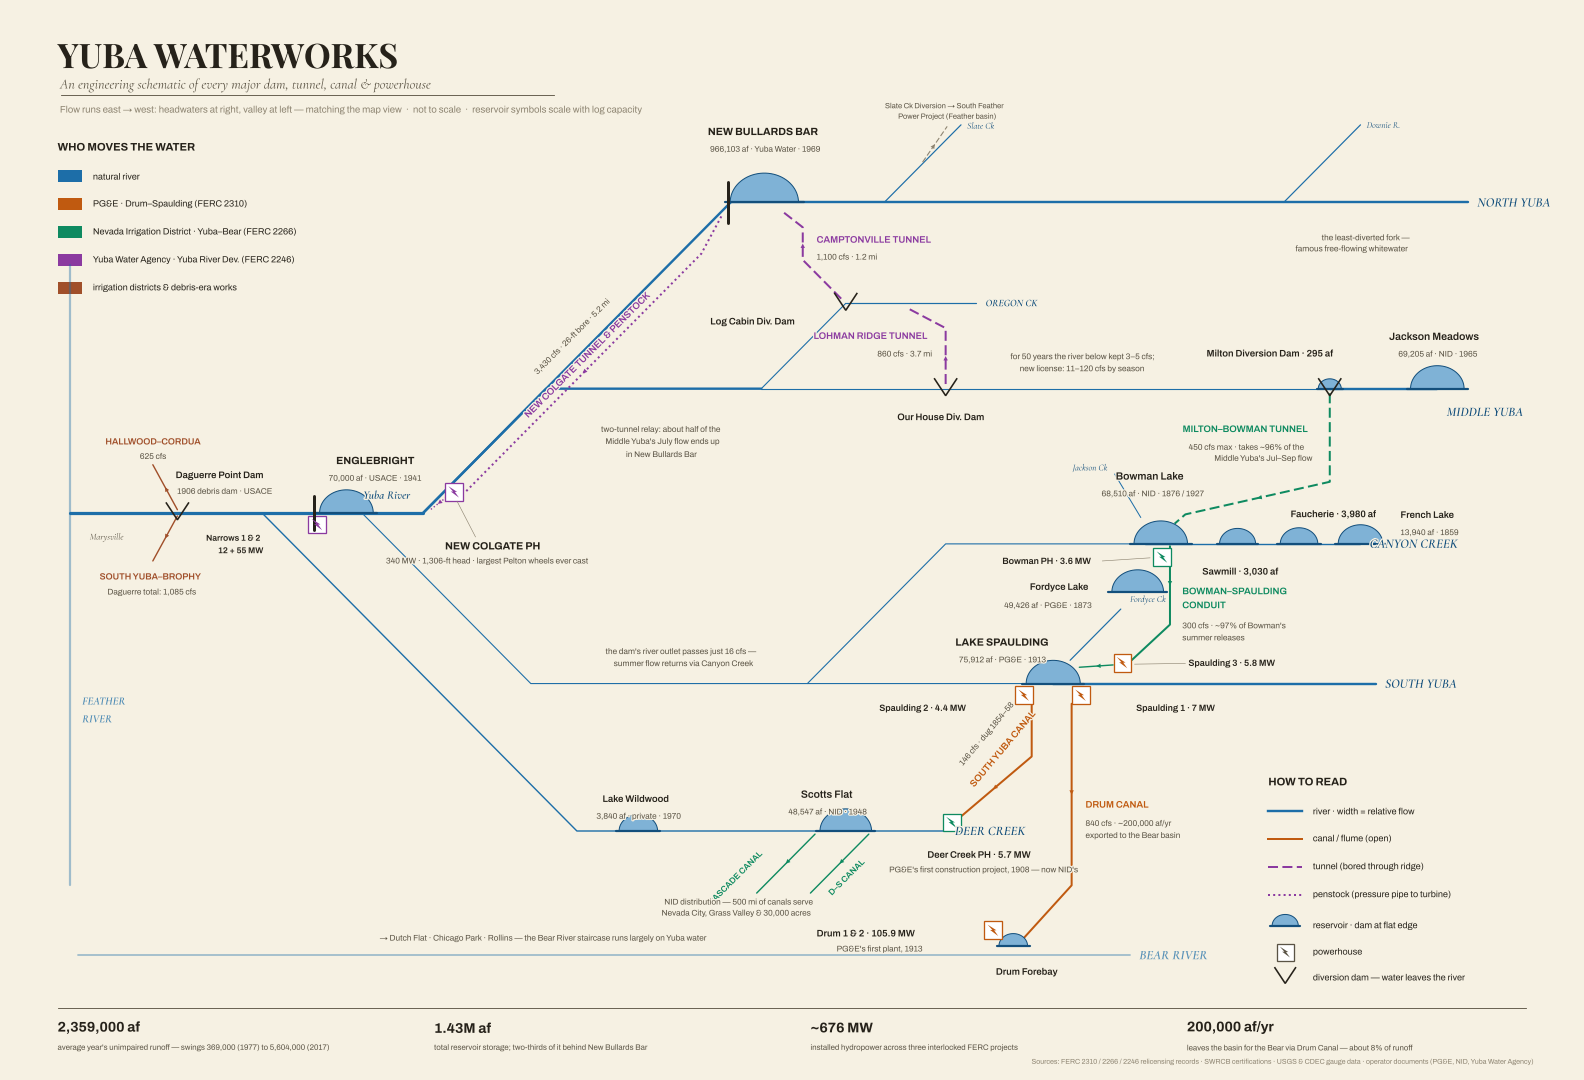
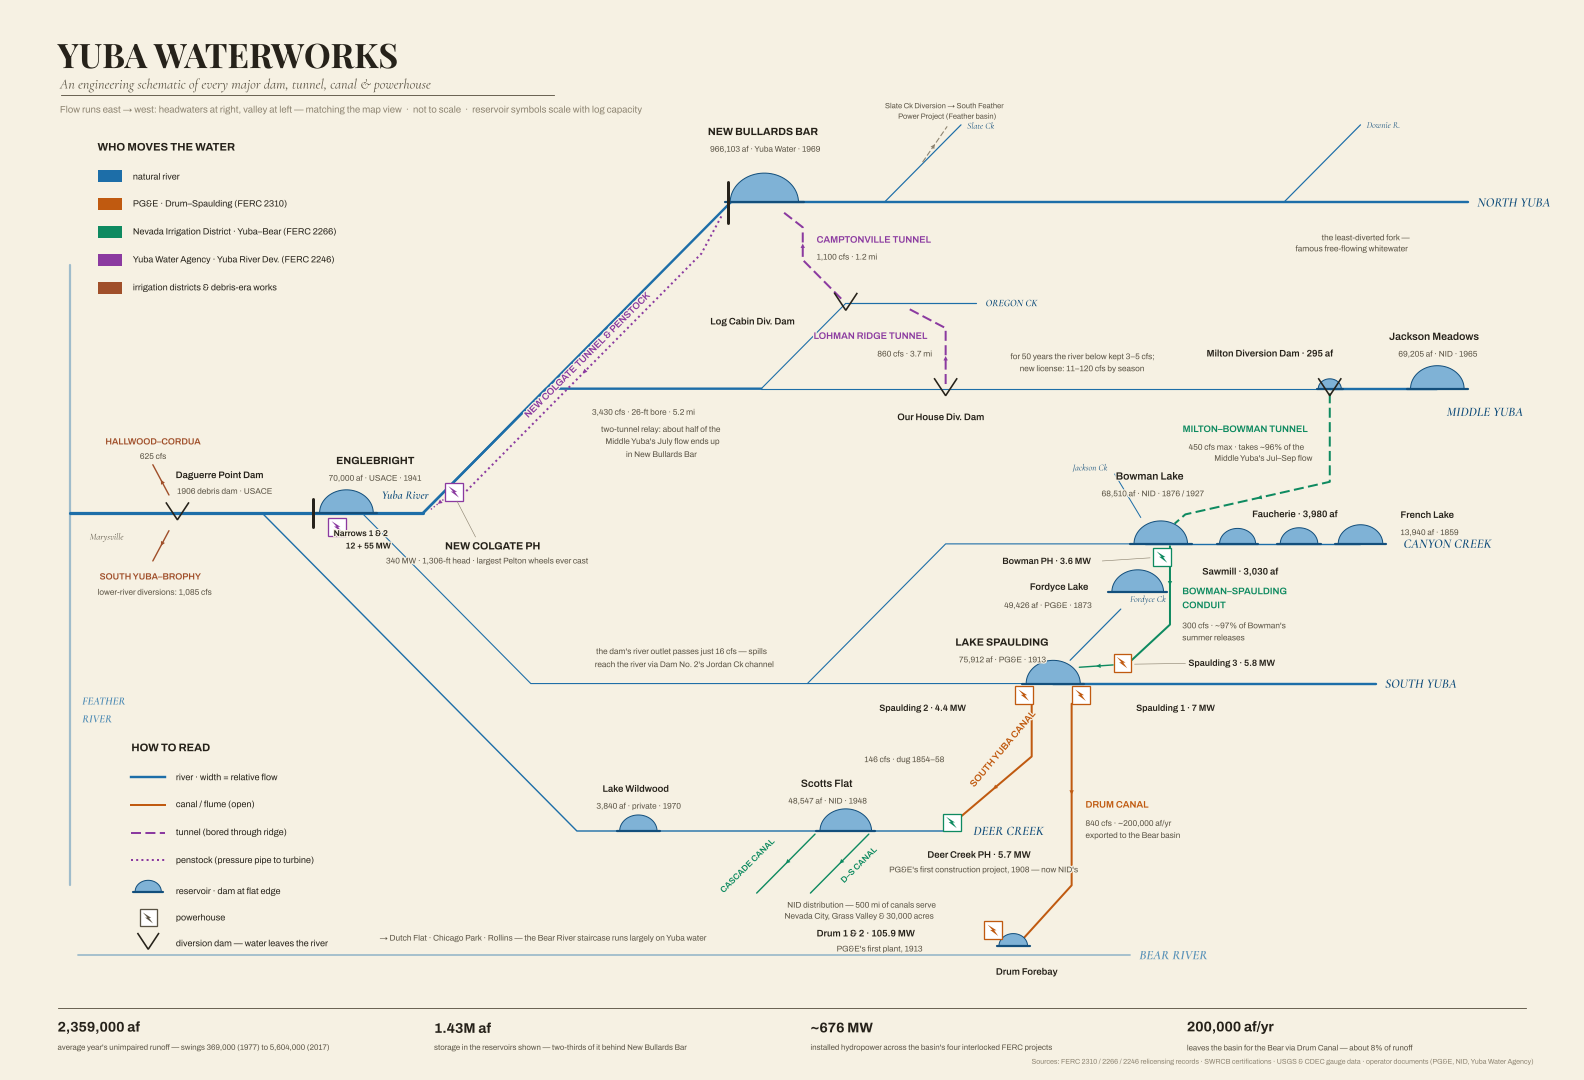
Polish Yuba map pair after adversarial review; mirror schematic east-west
- Schematic now reads east->west (headwaters right, Marysville left),
  matching the geographic view; chrome re-seated for the mirror.
- 11-agent review pass applied: fixed neatline clipping (axes inset),
  legend card overflow, scale bar collision, a dozen label collisions,
  and fact corrections (South Yuba Wild & Scenic since 1999, 17.2 MW
  Spaulding sum, four FERC projects behind the ~676 MW figure,
  storage caption scoped to reservoirs shown).
- Visual hierarchy: conveyances heavier, minor tributaries lighter;
  scale bar + north arrow grouped bottom-right; maps/README.md added.

Claude-Session: https://claude.ai/code/session_01EhBGgxf2qJ1Rh9PgSeVibk

diff --git a/maps/build_schematic.py b/maps/build_schematic.py
@@ -154,10 +154,10 @@ def main():
     conveyance(ax, [(45.0, Y_DEER - 0.2), (48.8, Y_DEER - 4.0)], style.NID,
                "canal", lw=1.4)
     # Daguerre Point diversions (steep exits)
-    conveyance(ax, [(90, Y_MAIN + 0.2), (91.6, Y_MAIN + 3.1)], style.DEBRIS,
-               "canal", lw=1.4)
-    conveyance(ax, [(90, Y_MAIN - 0.2), (91.6, Y_MAIN - 3.1)], style.DEBRIS,
-               "canal", lw=1.4)
+    conveyance(ax, [(90.55, Y_MAIN + 1.15), (91.6, Y_MAIN + 3.1)],
+               style.DEBRIS, "canal", lw=1.4)
+    conveyance(ax, [(90.55, Y_MAIN - 1.15), (91.6, Y_MAIN - 3.1)],
+               style.DEBRIS, "canal", lw=1.4)
 
     # ------------------------------------------------------------ reservoirs
     R = {
@@ -171,7 +171,7 @@ def main():
         "Lake Spaulding": (33, Y_SOUTH, 75912),
         "New Bullards Bar": (51.8, Y_NORTH, 966103),
         "Scotts Flat": (46.5, Y_DEER, 48547),
-        "Lake Wildwood": (60, Y_DEER, 4700),
+        "Lake Wildwood": (60, Y_DEER, 3840),
         "Englebright Lake": (79, Y_MAIN, 70000),
         "Drum Forebay": (35.6, Y_BEAR + 0.6, 800),
     }
@@ -190,7 +190,7 @@ def main():
         (36.9, Y_BEAR + 1.6, "Drum", style.PGE),
         (39.6, Y_DEER + 0.55, "Deer Creek", style.NID),
         (72.0, Y_MAIN + 1.35, "New Colgate", style.YWA),
-        (80.9, Y_MAIN - 0.75, "Narrows", style.YWA),
+        (79.6, Y_MAIN - 0.9, "Narrows", style.YWA),
     ]
     for x, y, nm, col in PH:
         symbols.draw_powerhouse(ax, FX(x), y, 1.15, col)
@@ -199,7 +199,7 @@ def main():
         symbols.draw_div_dam(ax, FX(x), y, 1.5, style.INK, zorder=8)
     # storage dam ticks
     symbols.draw_dam_tick(ax, FX(54.15), Y_NORTH, 2.6, style.INK)
-    symbols.draw_dam_tick(ax, FX(81.1), Y_MAIN, 2.2, style.INK)
+    symbols.draw_dam_tick(ax, FX(81.15), Y_MAIN, 1.8, style.INK)
 
     fig.canvas.draw()
 
@@ -229,9 +229,9 @@ def main():
               col=style.RIVER_DK, ha="right")
     T(5.4, Y_NORTH, "NORTH YUBA", **RN)
     T(7.4, Y_MIDDLE - 1.5, "MIDDLE YUBA", **RN)
-    T(12.4, Y_CANYON, "CANYON CREEK", **RN)
+    T(10.2, Y_CANYON, "CANYON CREEK", **RN)
     T(11.4, Y_SOUTH, "SOUTH YUBA", **RN)
-    T(39.4, Y_DEER, "DEER CREEK", **RN)
+    T(38.2, Y_DEER, "DEER CREEK", **RN)
     T(37.4, Y_OREGON, "OREGON CK", fs=10, fam=style.SERIF, fstyle="italic",
       fw=600, col=style.RIVER_DK, ha="right")
     T(27.4, Y_BEAR, "BEAR RIVER", fs=13, fam=style.SERIF, fstyle="italic",
@@ -239,7 +239,7 @@ def main():
     T(96.2, Y_MAIN - 11.5, "FEATHER\nRIVER", fs=11, fam=style.SERIF,
       fstyle="italic", fw=600, col=style.RIVER, ha="right", va="top",
       alpha=0.75)
-    T(76.4, Y_MAIN + 0.6, "Yuba River", fs=11.5, fam=style.SERIF,
+    T(75.2, Y_MAIN + 0.6, "Yuba River", fs=11.5, fam=style.SERIF,
       fstyle="italic", fw=700, col=style.RIVER_DK, va="bottom")
     T(94.6, Y_MAIN - 1.1, "Marysville", fs=9, fam=style.SERIF,
       fstyle="italic", fw=400, col=style.INK_SOFT, va="top")
@@ -265,7 +265,7 @@ def main():
     rlabel("Milton", 3.4, 2.3, "Milton Diversion Dam · 295 af", fs=9.5)
     rlabel("French Lake", -2.6, 1.9, "French Lake",
            "13,940 af · 1859", ha="right", fs=9.5)
-    rlabel("Faucherie", -2.5, 1.9, "Faucherie · 3,980 af", fs=9.5)
+    rlabel("Faucherie", 0, 1.9, "Faucherie · 3,980 af", fs=9.5)
     rlabel("Sawmill", -0.4, -1.8, "Sawmill · 3,030 af", fs=9.5)
     rlabel("Bowman Lake", 0.6, 4.4, "Bowman Lake",
            "68,510 af · NID · 1876 / 1927")
@@ -275,8 +275,8 @@ def main():
            "75,912 af · PG&E · 1913", fw=700)
     rlabel("New Bullards Bar", 0, 4.6, "NEW BULLARDS BAR",
            "966,103 af · Yuba Water · 1969", fw=700)
-    rlabel("Scotts Flat", 1.1, 2.4, "Scotts Flat", "48,547 af · NID · 1948")
-    rlabel("Lake Wildwood", 0, 2.1, "Lake Wildwood",
+    rlabel("Scotts Flat", 1.1, 3.1, "Scotts Flat", "48,547 af · NID · 1948")
+    rlabel("Lake Wildwood", 0, 2.75, "Lake Wildwood",
            "3,840 af · private · 1970", fs=9.5)
     rlabel("Englebright Lake", -1.9, 3.4, "ENGLEBRIGHT",
            "70,000 af · USACE · 1941", fw=700)
@@ -303,7 +303,7 @@ def main():
     SUB(69.4, Y_MAIN - 3.1, "340 MW · 1,306-ft head · largest Pelton wheels ever cast")
     ax.plot([FX(70.6), FX(71.8)], [Y_MAIN - 1.55, Y_MAIN + 0.75],
             color=style.INK_MUTE, lw=0.6, zorder=11)
-    T(84.3, Y_MAIN - 1.2, "Narrows 1 & 2\n12 + 55 MW", fs=8.5, ha="left",
+    T(76.0, Y_MAIN - 0.9, "Narrows 1 & 2\n12 + 55 MW", fs=8.5, ha="left",
       va="top")
 
     # ----------------------------------------------------- conveyance labels
@@ -318,19 +318,19 @@ def main():
     T(48.4, 49.6, "CAMPTONVILLE TUNNEL", fs=9.5, col=YWA_, ha="right")
     SUB(48.4, 48.5, "1,100 cfs · 1.2 mi", ha="right")
     T(63.2, 42.3, "NEW COLGATE TUNNEL & PENSTOCK", fs=9.5, col=YWA_, rot=-45)
-    SUB(64.35, 43.35, "3,430 cfs · 26-ft bore · 5.2 mi", rot=-45)
+    SUB(59.7, 38.5, "3,430 cfs · 26-ft bore · 5.2 mi")
     T(30.9, 13.2, "DRUM CANAL", fs=9.5, col=PGE_, ha="right")
     SUB(30.9, 11.6, "840 cfs · ~200,000 af/yr\nexported to the Bear basin",
         ha="right")
     T(36.2, 16.9, "SOUTH YUBA CANAL", fs=9.5, col=PGE_, rot=-50)
-    SUB(37.35, 17.75, "146 cfs · dug 1854–58", rot=-50)
-    T(53.6, 8.6, "CASCADE CANAL", fs=8.5, col=NID_, rot=-45)
-    T(46.4, 8.6, "D–S CANAL", fs=8.5, col=NID_, rot=-45)
-    SUB(53.5, 6.6, "NID distribution — 500 mi of canals serve\nNevada City, Grass Valley & 30,000 acres")
+    SUB(42.7, 16.1, "146 cfs · dug 1854–58")
+    T(52.8, 9.4, "CASCADE CANAL", fs=8.5, col=NID_, rot=-45)
+    T(45.6, 9.4, "D–S CANAL", fs=8.5, col=NID_, rot=-45)
+    SUB(45.5, 6.4, "NID distribution — 500 mi of canals serve\nNevada City, Grass Valley & 30,000 acres")
     T(91.6, Y_MAIN + 4.6, "HALLWOOD–CORDUA", fs=9, col=DEB_)
     SUB(91.6, Y_MAIN + 3.7, "625 cfs")
     T(91.6, Y_MAIN - 4.1, "SOUTH YUBA–BROPHY", fs=9, col=DEB_)
-    SUB(91.6, Y_MAIN - 5.1, "Daguerre total: 1,085 cfs")
+    SUB(91.6, Y_MAIN - 5.1, "lower-river diversions: 1,085 cfs")
     SUB(66, Y_BEAR + 1.1,
         "→ Dutch Flat · Chicago Park · Rollins — the Bear River staircase runs largely on Yuba water")
 
@@ -338,7 +338,7 @@ def main():
     BD = dict(fs=8.2, fam=style.SANS, fw=400, col=style.INK_SOFT,
               fstyle="italic")
     T(31, Y_MIDDLE + 0.9, "for 50 years the river below kept 3–5 cfs;\nnew license: 11–120 cfs by season", va="bottom", **BD)
-    T(57, Y_SOUTH + 0.9, "the dam's river outlet passes just 16 cfs —\nsummer flow returns via Canyon Creek", va="bottom", **BD)
+    T(57, Y_SOUTH + 0.9, "the dam's river outlet passes just 16 cfs — spills\nreach the river via Dam No. 2's Jordan Ck channel", va="bottom", **BD)
     T(58.5, Y_MIDDLE - 3.4, "two-tunnel relay: about half of the\nMiddle Yuba's July flow ends up\nin New Bullards Bar", **BD)
     T(9.5, Y_NORTH - 2.6, "the least-diverted fork —\nfamous free-flowing whitewater", ha="left", **BD)
 
@@ -352,8 +352,8 @@ def main():
     TC(2.35, 58.4, "Flow runs east → west: headwaters at right, valley at left — matching the map view  ·  not to scale  ·  reservoir symbols scale with log capacity",
        fs=9.5, fw=400, col=style.INK_MUTE, ha="left", va="top")
 
-    # legend (bottom right, in the mirrored diagram's void)
-    lx, ly = 81.0, 0.4
+    # legend (center-left void of the mirrored diagram)
+    lx, ly = 7.0, 2.6
     ax.plot([lx, lx + 2.2], [ly + 12.4, ly + 12.4], color=style.RIVER, lw=2.4)
     TC(lx + 2.9, ly + 12.4, "river · width = relative flow", fs=9, fw=400,
        ha="left")
@@ -377,7 +377,7 @@ def main():
        fw=400, ha="left")
     TC(lx, ly + 14.3, "HOW TO READ", fs=11, fw=700, ha="left")
     # owner key (left margin below the title, above the mirrored descent)
-    ox, oy = 2.2, 55.6
+    ox, oy = 4.8, 55.6
     TC(ox, oy, "WHO MOVES THE WATER", fs=11, fw=700, ha="left")
     for i, (col, lab) in enumerate([
             (style.RIVER, "natural river"),
@@ -394,8 +394,8 @@ def main():
     ax.plot([2.2, 97.8], [0.1, 0.1], color=style.FRAME, lw=0.8, zorder=22)
     tiles = [
         ("2,359,000 af", "average year's unimpaired runoff — swings 369,000 (1977) to 5,604,000 (2017)"),
-        ("1.43M af", "total reservoir storage; two-thirds of it behind New Bullards Bar"),
-        ("~676 MW", "installed hydropower across three interlocked FERC projects"),
+        ("1.43M af", "storage in the reservoirs shown — two-thirds of it behind New Bullards Bar"),
+        ("~676 MW", "installed hydropower across the basin's four interlocked FERC projects"),
         ("200,000 af/yr", "leaves the basin for the Bear via Drum Canal — about 8% of runoff"),
     ]
     for i, (num, cap) in enumerate(tiles):

diff --git a/maps/build_geo_map.py b/maps/build_geo_map.py
@@ -93,7 +93,7 @@ def draw_basins(ax):
     return yuba, bear
 
 
-RIVER_LW = {1: 3.4, 2: 2.3, 3: 1.5, 4: 1.0}
+RIVER_LW = {1: 3.4, 2: 2.3, 3: 1.3, 4: 0.85}
 CONTEXT_RIVERS = {"Bear River", "Feather River", "Wolf Creek"}
 
 
@@ -108,9 +108,10 @@ def draw_rivers(ax, eng=None):
             p = geo.project_arr(np.array(c))
             p = geo.chaikin(geo.simplify(p, 0.03), 2)
             width = RIVER_LW[cls] * (0.75 if ctx else 1.0)
+            a = 0.45 if ctx else (0.95 if cls <= 2 else 0.8)
             ax.plot(p[:, 0], p[:, 1], color=style.RIVER, lw=width,
                     solid_capstyle="round", solid_joinstyle="round",
-                    zorder=4, alpha=0.45 if ctx else 0.95)
+                    zorder=4, alpha=a)
             if eng is not None:
                 eng.add_line_data(p[:, 0], p[:, 1],
                                   step=max(1, len(p) // 150))
@@ -136,7 +137,7 @@ def draw_canals(ax, eng=None):
         for c in chains:
             p = geo.project_arr(np.array(c))
             p = geo.chaikin(geo.simplify(p, 0.02), 2)
-            ax.plot(p[:, 0], p[:, 1], color=col, lw=1.2 if ctx else 1.8,
+            ax.plot(p[:, 0], p[:, 1], color=col, lw=1.2 if ctx else 2.2,
                     zorder=5, solid_capstyle="round",
                     alpha=0.45 if ctx else 1.0)
             if eng is not None:
@@ -187,7 +188,7 @@ def draw_conveyances(ax, eng, infra, nhd_canals):
             pts = geo.project_arr(np.array(cv["geometry"]))
             pts = geo.chaikin(pts, 2)
             ls = style.LINESTYLE.get(cv["kind"], "-")
-            ax.plot(pts[:, 0], pts[:, 1], color=col, lw=2.0, linestyle=ls,
+            ax.plot(pts[:, 0], pts[:, 1], color=col, lw=2.4, linestyle=ls,
                     zorder=5.5, solid_capstyle="round")
             symbols.mid_arrowhead(ax, pts, col, frac=0.5, size=9, zorder=5.6)
             eng.add_line_data(pts[:, 0], pts[:, 1], step=max(1, len(pts)//40))
@@ -199,6 +200,8 @@ def draw_conveyances(ax, eng, infra, nhd_canals):
         rad = math.radians(ang + 90)
         off = {"above": 1.15, "below": -1.7, "left": 1.15,
                "right": -1.7}[side]
+        if cv.get("label_off"):
+            off = cv["label_off"] * (1 if off > 0 else -1)
         sx, sy = lx + math.cos(rad) * off, ly + math.sin(rad) * off
         t = ax.text(sx, sy, cv["label"], fontsize=8.2, family=style.SANS,
                     fontweight=600, color=col, ha="center", va="center",
@@ -314,6 +317,8 @@ def draw_stories(ax, rects):
         ex = min(max(axp, x), x + w)
         ey = min(max(ayp, y), y + h)
         d = math.hypot(axp - ex, ayp - ey)
+        if st.get("leader") is False:
+            d = 0
         if 1.0 < d < 14.0:
             ux, uy = axp - ex, ayp - ey
             ax.plot([ex + ux * 0.02, axp - ux * 0.06],
@@ -329,7 +334,7 @@ RIVER_LABELS = [
     ("South Yuba River", -120.88, 0.0, "SOUTH YUBA RIVER", 10.5),
     ("Yuba River", -121.505, 0.0, "YUBA RIVER", 12.5),
     ("Deer Creek", -121.115, 0.0, "Deer Creek", 9.0),
-    ("Canyon Creek", -120.638, 0.0, "Canyon Ck", 8.5),
+    ("Canyon Creek", -120.612, 0.0, "Canyon Ck", 8.5),
     ("Oregon Creek", -121.083, 0.0, "Oregon Ck", 8.0),
     ("Dry Creek", -121.36, 0.0, "Dry Creek", 8.5),
     ("Slate Creek", -121.09, 0.0, "Slate Ck", 8.0),
@@ -376,7 +381,7 @@ def draw_title_block(ax):
             fontsize=17.5, family=style.SERIF, fontstyle="italic",
             color=style.INK_SOFT, va="top", **kw)
     ax.text(x + 0.15, y - 7.0,
-            "Yuba River watershed, California  ·  1,339 square miles  ·  drawn from USGS NHDPlus HR hydrography & 3DEP terrain",
+            "Yuba River watershed, California  ·  1,339 square miles",
             fontsize=10.5, family=style.SANS, color=style.INK_MUTE,
             va="top", **kw)
     rule_y = y - 6.0
@@ -407,8 +412,8 @@ def legend_line(ax, x, y, color, kind, label, sub=None):
 
 def draw_legend(ax):
     """'How to read this map' card, left edge under the title block."""
-    cx, cy = geo.project(-121.669, 39.368)   # card lower-left
-    W, H = 22.5, 29.8
+    cx, cy = geo.project(-121.669, 39.34)   # card lower-left
+    W, H = 22.5, 32.5
     draw_card(ax, cx, cy, W, H)
     x = cx + 1.5
     y = cy + H - 2.2
@@ -499,7 +504,9 @@ def main():
     infra = load_infra()
     ratio = (Y1 - Y0) / (X1 - X0)
     fig = plt.figure(figsize=(FIG_W, FIG_W * ratio), dpi=100)
-    ax = fig.add_axes([0, 0, 1, 1])
+    pad = 0.018
+    pad_v = pad / ratio
+    ax = fig.add_axes([pad, pad_v, 1 - 2 * pad, 1 - 2 * pad_v])
     ax.set_xlim(X0, X1)
     ax.set_ylim(Y0, Y1)
     ax.set_aspect("equal")
@@ -587,7 +594,8 @@ def main():
         txt = lm["name"] + (f"\n{lm['note']}" if lm.get("note") else "")
         t = place2(x, y, txt, fontsize=8, family=style.SANS,
                    color=style.INK_SOFT, linespacing=1.25,
-                   path_effects=halo(), zorder=12, leader=False)
+                   path_effects=halo(), zorder=12,
+                   leader="ft" not in lm["name"])
         if t is None:
             misses.append(("landmark", lm["name"]))
     # free-floating italic annotations
@@ -605,13 +613,13 @@ def main():
     draw_stories(ax, rects)
     ax.text(*P(-120.372, 39.028),
             "Hydrography: USGS NHDPlus HR  ·  Terrain: USGS 3DEP  ·  Statistics: FERC 2310 / 2266 / 2246 records, SWRCB certifications, USGS & CDEC gauges  ·  An artistic schematic — not for navigation",
-            fontsize=7.5, family=style.SANS, color=style.INK_MUTE,
+            fontsize=7.5, family=style.SANS, color=style.INK_SOFT,
             ha="right", va="bottom", zorder=22, path_effects=halo())
     draw_title_block(ax)
     draw_legend(ax)
     draw_frame(ax, fig)
-    draw_scalebar(ax, *geo.project(-121.425, 39.045))
-    draw_north(ax, *geo.project(-121.135, 39.038))
+    draw_scalebar(ax, *geo.project(-120.645, 39.055))
+    draw_north(ax, *geo.project(-120.68, 39.049))
 
     os.makedirs(OUT, exist_ok=True)
     fig.savefig(os.path.join(OUT, "yuba_plumbing_map.pdf"))

diff --git a/maps/labeling.py b/maps/labeling.py
@@ -139,7 +139,7 @@ class LabelEngine:
         ux, uy = tx - px, ty - py
         d = np.hypot(ux, uy)
         sx, sy = px + ux / d * 5, py + uy / d * 5
-        ex, ey = px + ux / d * (d - 4), py + uy / d * (d - 4)
+        ex, ey = px + ux / d * (d - 1.5), py + uy / d * (d - 1.5)
         (x0, y0), (x1, y1) = inv.transform([(sx, sy), (ex, ey)])
         self.ax.plot([x0, x1], [y0, y1], solid_capstyle="round", **kw)
 

diff --git a/maps/README.md b/maps/README.md
@@ -1,0 +1,52 @@
+# Yuba Watershed Map Pair
+
+Two print-quality PDF maps of how water is stored, tunneled, and traded
+across the Yuba River watershed:
+
+| File | What it is |
+|---|---|
+| `output/yuba_plumbing_map.pdf` | **The Plumbing of the Yuba** — georeferenced artistic map (24×18 in). Real USGS hydrography and terrain, schematic conveyance overlay, story callouts. |
+| `output/yuba_schematic.pdf` | **Yuba Waterworks** — fully schematic tube-map-style engineering diagram (22×15 in). Flow runs east→west (headwaters at right) to match the map view. |
+
+## Rebuilding
+
+```bash
+pip install matplotlib numpy shapely pillow tifffile
+python3 maps/build_geo_map.py      # georeferenced map
+python3 maps/build_schematic.py    # engineering schematic
+```
+
+Both scripts are deterministic given the checked-in data. Previews
+(`*_preview.png`) are written alongside the PDFs.
+
+## Layout of this directory
+
+- `build_geo_map.py` / `build_schematic.py` — the two renderers.
+- `style.py` — shared visual system: cream-paper palette (validated for
+  color-vision-deficiency separation and contrast), operator colors
+  (PG&E amber, NID green, Yuba Water purple, debris-era brown), fonts,
+  line vocabulary (solid = canal, dashed = tunnel, dotted = penstock).
+- `symbols.py` — reservoir lens / powerhouse / diversion-dam glyphs.
+- `labeling.py` — greedy collision-avoiding label placement engine
+  (measures true rendered text boxes, scores candidate offsets against
+  placed labels, obstacles, and line vertices; draws leader lines).
+- `geo.py` — GeoJSON loading, local projection, Chaikin smoothing,
+  Douglas–Peucker simplification, NHD segment chaining.
+- `prepare_data.py` — turns the raw NHD downloads into `data/linework.json`.
+- `fonts/` — bundled OFL fonts (Playfair Display, Cormorant Garamond,
+  Archivo), static instances cut from Google Fonts variable fonts.
+
+## Data
+
+- `data/rivers.geojson`, `data/canals_*.geojson`, `data/reservoirs.geojson`
+  — USGS NHDPlus HR features (queried from `hydro.nationalmap.gov`).
+- `data/huc8_18020125.geojson`, `data/huc8_18020126.geojson` — Yuba and
+  Bear HUC8 boundaries (geoconnex.us).
+- `data/hillshade.npz` — USGS 3DEP hillshade for the map window.
+- `data/yuba_infrastructure.json` — the curated dataset: every reservoir,
+  diversion dam, tunnel, canal, powerhouse, story callout, and annotation
+  printed on the maps, with capacities/statistics compiled from FERC
+  2310 / 2266 / 2246 relicensing records, SWRCB certifications, USGS &
+  CDEC gauge data, and operator documents (PG&E, NID, Yuba Water Agency).
+
+The maps are artistic schematics — not for navigation or engineering use.